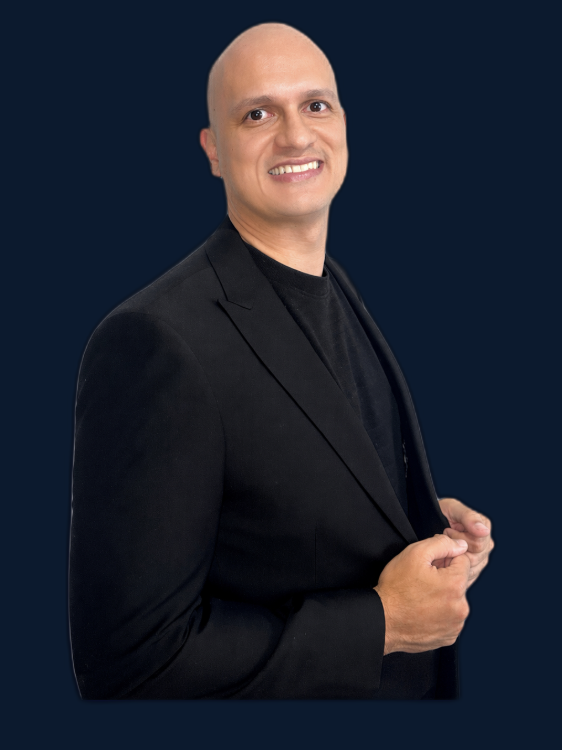
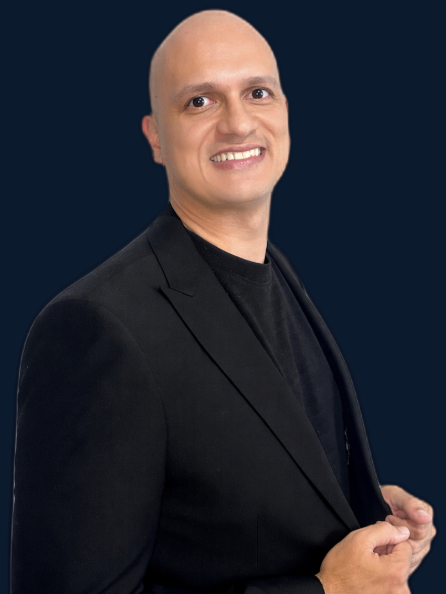
fix: encuadre fotos 3:4 y nombre Rocío Rojas

diff --git a/src/data/equipo.ts b/src/data/equipo.ts
@@ -45,7 +45,7 @@ export const equipo: TeamMember[] = [
   { id: 13, nombre: 'Fabiola Lozano', foto: fotoFabiola, rol: 'Quality Analyst', rolEn: 'Quality Analyst', email: 'flozano@internationalgtc.com', linkedin: 'https://www.linkedin.com/in/fabiolalozano/', nivel: 'operativo' },
   { id: 15, nombre: 'Delfina Palacio', foto: fotoDelfina, rol: 'Community Manager', rolEn: 'Community Manager', email: 'dpalacio@internationalgtc.com', linkedin: '', nivel: 'operativo' },
   { id: 16, nombre: 'Suany Artica', foto: fotoSuany, rol: 'Quality Analyst', rolEn: 'Quality Analyst', email: 'sartica@internationalgtc.com', linkedin: '', nivel: 'operativo' },
-  { id: 17, nombre: 'Rocío', foto: fotoRocio, rol: 'Quality Analyst', rolEn: 'Quality Analyst', email: 'rrojas@internationalgtc.com', linkedin: '', nivel: 'operativo' },
+  { id: 17, nombre: 'Rocío Rojas', foto: fotoRocio, rol: 'Quality Analyst', rolEn: 'Quality Analyst', email: 'rrojas@internationalgtc.com', linkedin: '', nivel: 'operativo' },
 ]
 
 export const direccion = equipo.filter(m => m.nivel === 'direccion' || m.nivel === 'lider')
